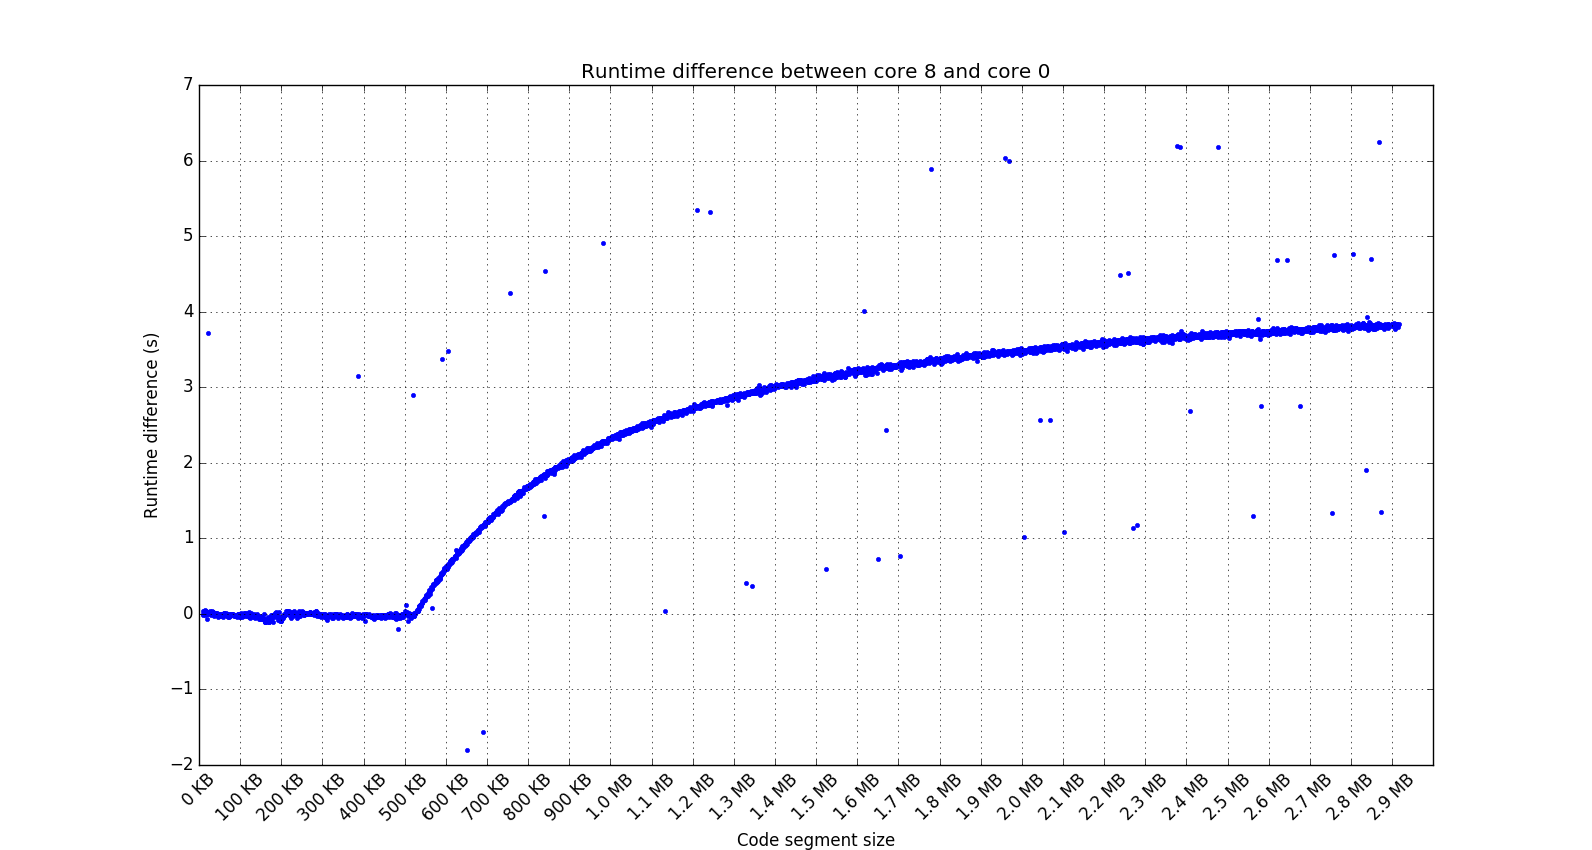
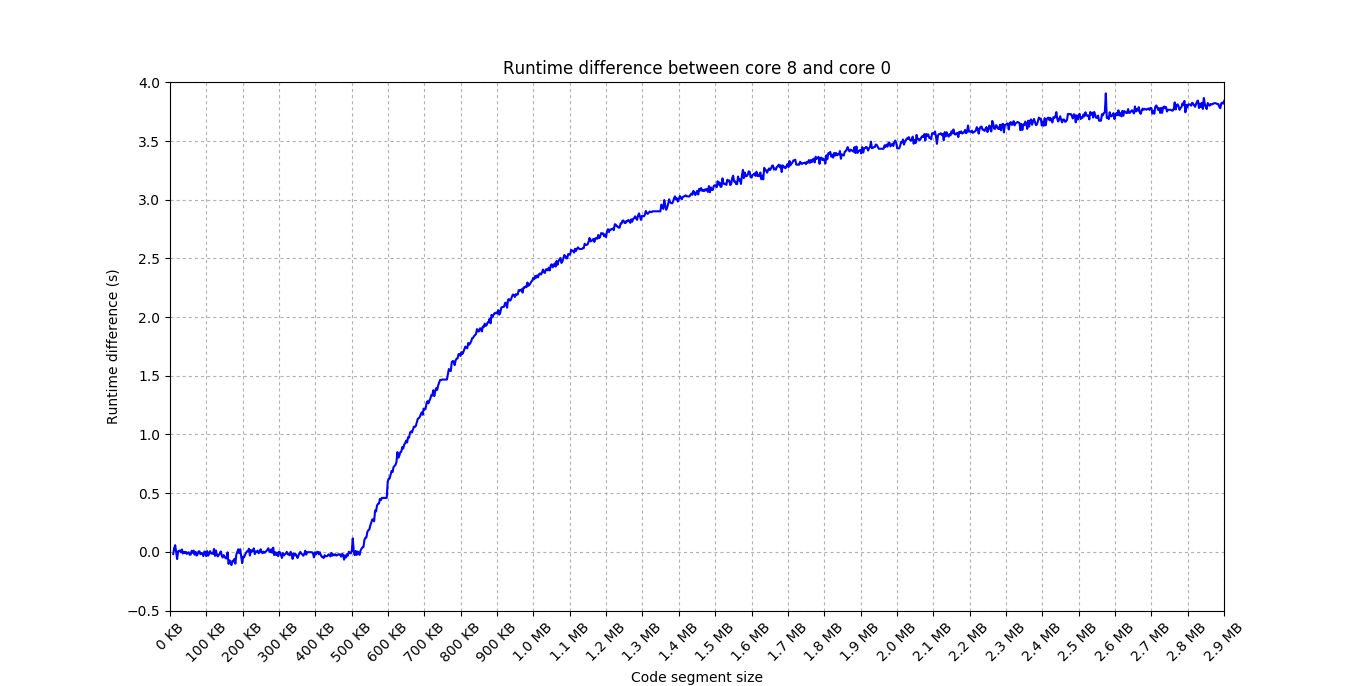
Merged and applied several fixes

diff --git a/kv_performance.tex b/kv_performance.tex
@@ -10,7 +10,6 @@
 %\usepackage{float}
 \usepackage{hyperref}
 \usepackage{listings}
-\usepackage{citesort}
 \usepackage{changepage}
 \usepackage{caption}
 \usepackage{color}
@@ -89,7 +88,7 @@ temporarily removed and Simultaneous Multithreading disabled, running KV on
 the bare-metal server while setting scheduling affinity sequentially to each physical
 core. The results shown
 in Figure~\ref{kv-runtime} highlighted a 12\% difference in the average simulation
-time when binding KV to core 8, the first core of the second processor, i.e. CPU1.
+time when binding KV to core 8, the first core of the second processor (CPU1).
 
 \begin{figure}[h]
 \begin{center}
@@ -99,7 +98,7 @@ time when binding KV to core 8, the first core of the second processor, i.e. CPU
 \end{figure}
 Further tests confirmed the same behaviour also with Simultaneous Multithreading 
 on, with slower performance on thread 8 and 24, both belonging to the first core of 
-CPU1. Single thread runs in a virtualised environment showed a 16\%
+CPU1. Single-threaded runs in a virtualised environment showed a 16\%
 increase in the final average simulation time when running on virtual processors
 corresponding to hardware threads 8 and 24, confirming the 2\%
 spread that stood out from the statistical distribution after averaging the results
@@ -141,17 +140,14 @@ therefore the following points had be taken into consideration:
 \item A call to \textit{open} function in Python, results in the invocation
 of libc \textit{fopen}. Python can modify libc buffering behaviour via libc 
 function \textit{setvbuf} if \textit{buffering} parameter is specified, 
-otherwise the default libc buffering is used. Without control over the Python
-source code, it was not possible to modify buffering options.
+otherwise the default libc buffering is used. 
 \item Environment variable \textit{PYTHONUNBUFFERED} can be used to turn off
 buffering of \textit{stdin, stdout, stderr}.
 \end{itemize}
-The best solution found to implement unbuffered I/O to log files was to set 
-\textit{PYTHONUNBUFFERED=1} and pipe logs printed by KV on standard output to
-\textit{tee}, which would eventually write to an additional log file setting 
-\textit{\_IONBF} on all file descriptors via \textit{setvbuf}.
-\textit{unbuffer} command was also used to disable buffering between the two
-ends of the pipe. 
+Without control over the Python source code, the approach adopted to implement 
+unbuffered I/O to log files consisted in setting 
+\textit{PYTHONUNBUFFERED=1} and redirecting standard output and standard error 
+to an additional log file that would be monitored by the \textit{pyinotify} script.
 \\
 The profile of the execution was obtained with \textit{perf record} . 
 Results for core 0 
@@ -159,9 +155,7 @@ and core 8 are shown respectively in listing ~\ref{event-73-processor0} and
 listing ~\ref{event-73-processor8} (limiting the output to functions that
 contribute for more than 1\% of the runtime). 
 
-\begin{lstlisting}[language=Bash,float,caption=Recording of event 73 on core 0, label=event-73-processor0]
-# Total Lost Samples: 0
-#
+\begin{lstlisting}[caption=Recording of event 73 on core 0, label=event-73-processor0]
 # Samples: 125K of event ' cycles:pp'
 # Event count (approx.): 99035639955
 #
@@ -188,9 +182,7 @@ contribute for more than 1\% of the runtime).
      1.06%  athena.py  libG4processes.so      [.] G4ElectroNuclearCrossSection::GetZandACrossSec
 \end{lstlisting}
 
-\begin{lstlisting}[float,caption=Recording of event 73 on core 8, label=event-73-processor8]
-# Total Lost Samples: 0
-#
+\begin{lstlisting}[caption=Recording of event 73 on core 8, label=event-73-processor8]
 # Samples: 141K of event ' cycles:pp'
 # Event count (approx.): 111860905419
 #
@@ -239,7 +231,7 @@ libraries. These results were then elaborated into a list of the top contributor
 to the additional clock cycles required when running on core 8 as shown 
 in table ~\ref{major-contributors}.
 
-\begin{table}
+\begin{table}[ht]
 \begin{center}
 \begin{tabular}{ | l | l |}
   \hline
@@ -275,14 +267,6 @@ in table ~\ref{major-contributors}.
   \hline
   \_\_log10\_finite & 1.39\% \\
   \hline
-  G4VDiscreteProcess::PostStepGetPhysicalInteractionLength & 1.38\% \\
-  \hline
-  FADS::MagneticFieldMap::GetFieldValue & 1.38\% \\
-  \hline
-  FADS::MagneticFieldMapT$\langle$G4AtlasFieldSvc$\rangle$::FieldValue & 1.33\% \\
-  \hline
-  G4UniversalFluctuation::SampleFluctuations & 1.33\% \\
-  \hline
 \end{tabular}
 \end{center}
 \caption{Major contributors to the additional runtime on core 8 (percentage
@@ -295,26 +279,25 @@ After having obtained the list in table ~\ref{major-contributors}, the
 top contributors to the additional runtime were profiled to obtain
 a detailed breakdown of the weight of each assembly instruction in terms of 
 clock cycles. The most relevant recordings are reported in Appendix  
-~\ref{appending:function-recording}. The results highlighted an interesting 
+~\ref{appendix:function-recordings}. The results highlighted an interesting 
 pattern on most of the major contributors:  it appeared that an unexpectedly 
-large number of cycles was attributed to the initial instructions of each function.
-Most of these instructions, despite sometimes accessing memory 
-(e.g. push on the stack), could not justify such a high cost: in some cases a 
+large number of cycles was attributed to the initial instructions of each function,
+most of which could not justify such a high cost. In some cases a 
 \textit{mov} of a literal value to a register was taking up 8\% of the whole 
-execution time of that specific function. Such behavior was common to all cores,
-but if these functions were responsible for most of the additional execution time,
-then probably the reason had to be related to this peculiar profile. A first hypothesis
+execution time of that specific function (listing ~\ref{lst:log10}). 
+Such behaviour was common to all cores and could not explain the performance
+asymmetry highlighted by the benchmark. However, if most of the additional 
+clock cycles were spent executing these functions, it was reasonable to hypothesize
+a correlation with this peculiar profile. A first hypothesis
 pointed in the direction of instruction cache misses as the reason behind
-the large number of cycles spent on the initial instructions.
-ATLAS Kit Validation seemed a good candidate for a large number of  such events,
-with its large code segment consisting of tens of shared libraries. Even though
-this hypothesis could not explain the slower performance when running on core 8,
-an attempt was made to validate it.
- 
+the overhead attributed to the initial instructions.
+ATLAS Kit Validation seemed a good candidate for a large number of such events,
+with its code segment consisting of tens of shared libraries. 
 
 \section{Synthetic benchmark to generate instruction cache miss}
 A synthetic benchmark aimed at causing a large number of instruction cache 
-misses was automatically generated using a \href{https://gitlab.cern.ch/snippets/216}{Python script}. The resulting C code was compiled
+misses was automatically generated using a \href{https://gitlab.cern.ch/snippets/216}{Python script}. 
+The resulting C code was compiled
 under CentOS 7 with gcc 4.8.5 and \textit{-O0}. The benchmark consists of a large
 number of dummy functions which are called randomly at runtime, generating
 repeated instruction cache misses in L1i and L2. Interestingly, the results
@@ -372,17 +355,17 @@ The test was repeated by making use of the huge pages support of the operating
 system (2MiB). The following commands were used to compile and execute the benchmark
 with a code segment size of 3 MiB.
 
-\begin{lstlisting}
-sysctl vm.nr_hugepages=500
-gcc benchmark.c -o benchmark -O0 -B/usr/share/libhugetlbfs -Wl,--hugetlbfs-align
-hugectl --text ./switch_slowdown_v2 32768
-\end{lstlisting}
+%\begin{lstlisting}[caption=Compilation and execution of the synthetic benchmark using huge pages]
+%sysctl vm.nr_hugepages=500
+%gcc benchmark.c -o benchmark -O0 -B/usr/share/libhugetlbfs -Wl,--hugetlbfs-align
+%hugectl --text ./switch_slowdown_v2 32768
+%\end{lstlisting}
 With 2MiB pages, no performance difference was observed between core 8 and the 
 other cores on the system.
 
-\begin{figure}[h]
+\begin{figure}[ht]
 \begin{center}
-\includegraphics[scale=0.45]{images/runtime_difference.png}
+\includegraphics[scale=0.40]{images/runtime_difference.png}
 \end{center}
 \caption{\label{fig:runtime-difference} Runtime difference between core 8 and core 0}
 \end{figure}
@@ -409,9 +392,8 @@ other cores on the system.
 \newpage
 \newpage
 \begin{appendices}
-
+\label{appendix:function-recordings}
 \section{Function annotations}
-
 \begin{minipage}{\linewidth}
 \begin{lstlisting}[language={[x64]Assembler}, basicstyle=\ttfamily\tiny, 
 caption=G4StepLimiter::PostStepGetPhysicalInteractionLength cycles annotation]
@@ -592,7 +574,7 @@ caption=G4FieldTrack::G4FieldTrack cycles annotation]
 
 \begin{minipage}{\linewidth}
 \begin{lstlisting}[language={[x64]Assembler}, basicstyle=\ttfamily\tiny,
-caption=\_\_log10 finite cycles annotation]
+caption=\_\_log10\_finite cycles annotation, label=lst:log10]
 Percent |      Source code & Disassembly of libm-2.17.so for  cycles:pp
 ------------------------------------------------------------------------
          :      Disassembly of section .text:
@@ -619,7 +601,7 @@ Percent |      Source code & Disassembly of libm-2.17.so for  cycles:pp
 
 
 \end{appendices}
-%\section*{References}
-%\bibliography{iopart-num}
-%\bibliographystyle{unsrt}
+\section*{References}
+\bibliography{iopart-num}
+\bibliographystyle{unsrt}
 \end{document}

diff --git a/intro.tex b/intro.tex
@@ -1,6 +1,6 @@
 \begin{abstract}
 With the increasing adoption of cloud resources, public and private, to support
-the demands in terms of computing capacity for WLCG, the HEP community has begun
+the demands in terms of computing capacity of the WLCG, the HEP community has begun
 studying several benchmarking applications aimed at continuously assessing the
 performance of virtual machines procured from commercial providers.
 In order to characterise the behaviour of these benchmarks, in-depth
@@ -12,42 +12,52 @@ obtained on systems based on Intel Haswell-EP processors.
 
 
 \section{Introduction}
-
-Nowadays the majority of the experiments' workloads running on WLCG are simulation jobs, where most of the computing time is spent in number crunching, a CPU-bound activity. For this reason the adoption of fast benchmarks representative of CPU-bound workloads can be beneficial in the grid activity for monitoring and resource match-making purposes in order to  provide real-time information about the delivered performance of a virtual machine in a cloud IaaS or a job slot in a grid site.
-For instance a prompt benchmarking can  act as a prediction mechanism for the execution of the LHC experiments' workloads, allowing for a fast and reliable triage of suitable resources in a much shorter time period than standard jobs.
-%
-A number of fast benchmarks is being studied by the HEP community. Within the HEPiX Benchmarking Working Group~\cite{HEPiX:2014:HEPiX}, two fast benchmarks are in particular under deep investigation: Dirac Benchmark 2012 (DB12)~\cite{CERN:2016:DB12} and ATLAS Kit Validation (KV)~\cite{KV}.
+Nowadays the majority of the experiments' workloads running on the WLCG are simulation 
+jobs, where most of the computing time is spent in CPU-bound activities. For this 
+reason the adoption of fast benchmarks representative of these workloads 
+can be beneficial for monitoring and resource allocation purposes,
+by providing real-time information on the performance delivered by virtual 
+machines in the cloud or job slots in a grid site.
+%For instance a prompt benchmarking can  act as a prediction mechanism for the 
+%execution of the LHC experiments' workloads, allowing for a fast and reliable 
+%triage of suitable resources in a much shorter time period than standard jobs.
+A number of fast benchmarks is being studied by the HEP community. Within the 
+HEPiX Benchmarking Working Group~\cite{HEPiX:2014:HEPiX}, two fast benchmarks are 
+in particular under deep investigation: Dirac Benchmark 2012 (DB12)~\cite{CERN:2016:DB12} 
+and ATLAS Kit Validation (KV)~\cite{KV}.
 
 \section{KV Benchmark}
-
 KV is the toolkit adopted by the ATLAS collaboration for the
 validation of their software installation in grid sites. The tests include, among
-others, the GEANT4~\cite{GEANT4} simulation of the ATLAS detector. 
-This test has been repurposed to benchmark compute resources against CPU-bound workloads. 
-The KV benchmark simulates
-$n$ independent events consisting of a single muon particle propagating through
-the ATLAS detector.  The CPU time needed to simulate each event is recorded and the average over the $n$ events is computed as the final benchmark result.
-Attention is paid to remove  from the measurement spurious effects such as the overhead coming from the initialisation of the
-software libraries and the configuration of the simulation parameters (detector
-geometry, list of particles, properties of the materials). To avoid that the first event in the sequence is excluded from the final average.
+others, the GEANT4~\cite{GEANT4} simulation of the ATLAS detector, which
+has been re-purposed to benchmark compute resources against CPU-bound 
+workloads. The KV benchmark simulates $n$ independent events consisting of a single muon particle 
+propagating through the ATLAS detector. The CPU time needed to elaborate each event 
+is recorded and the average over the $n$ events is computed as the final benchmark result.
+By excluding the first event in the sequence from the final average, spurious effects such as the 
+overhead coming from the initialisation of the software libraries and the configuration 
+of the simulation parameters (detector geometry, list of particles, properties of 
+the materials) are disregarded from the measurement.
 
 The KV benchmark is single threaded as most of the LHC experiments'
-software applications. In order to fully load the compute resources and reproduce
-the worst case load scenario, where all the compute slots are running jobs and
-CPU idle time is minimised, the benchmarking procedure is configured to run,
-by default, in parallel with as many threads as the number of logical cores of
-the server and the benchmark result is calculated as the arithmetic average over
-the set of threads.
+software applications. In order to fully utilize compute resources and reproduce
+the worst case load scenario, where all compute slots are running jobs and
+CPU idle time is minimised, the benchmark is configured to run,
+by default, in parallel with as many threads as the number of logical cores 
+provided by the server and the benchmark result is calculated as the arithmetic 
+average over all threads.
+
+In the past few years the KV benchmark has been used to assess the performance of
+resources provided by commercial cloud providers and grid site. The results 
+have been compared with the average CPU time required to simulate ATLAS events, 
+as reported by the experiment's job monitoring framework. Details about this activity 
+and the correlation among benchmark results and job duration are reported 
+in~\cite{bmk}.
 
 
-In the past few years the KV benchmark measurements have been performed in several commercial cloud providers and grid sites 
-where experiments' job were also running. The  benchmark results have been then compared with the average CPU time spent by the VM to simulate ATLAS events, as reported by the experiment's job monitoring framework. Details about this activity and the correlation among benchmark results and job duration are reported in~\cite{bmk}.
-
-
-
-
-\section{An unexpected behaviour}
-Among other environments, the KV benchmark was executed on 240 Haswell-EP hypervisors providing compute
+\section{Investigating KV results}
+One of the several environments that was benchmarked using KV consisted of
+ 240 Haswell-EP hypervisors providing compute
 resources as VMs dedicated to the CERN Tier-0 batch system. The servers were
 fitted with two 8-core Intel Xeon E5-2630v3 processors, with a total number  
 of 32 threads per server with simultaneous multithreading enabled, and 64~GiB    
@@ -65,7 +75,7 @@ mean of the two modes as shown in Figure~\ref{dual-mode-gaussian}.
 \begin{center}
 \includegraphics[width=0.5\textwidth]{images/dual-mode-gaussian.png}
 \end{center}
-\caption{\label{dual-mode-gaussian} Distribution of the average KV execution speed [sec/evt] from VMs with 16 virtual CPUs. }
+\caption{\label{dual-mode-gaussian} Distribution of the average KV execution speed [sec/evt] on  VMs with 16 virtual CPUs. }
 \end{figure}
 
 
